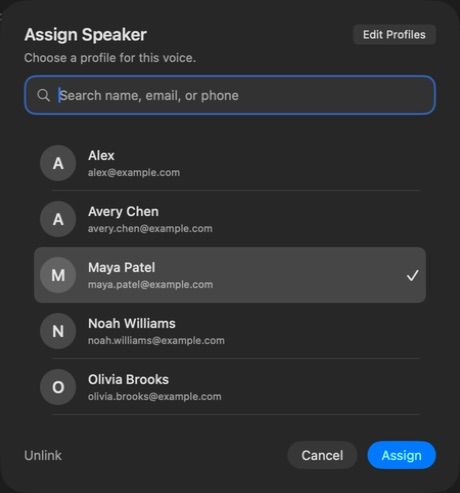
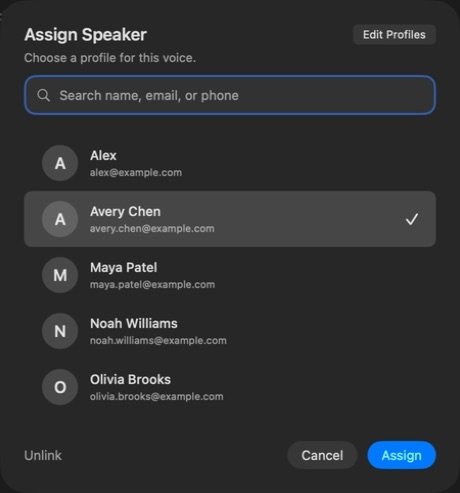
Restore rounded speaker selection while keeping full-width alignment

diff --git a/Sources/Stillnote/Views/SpeakerEditor.swift b/Sources/Stillnote/Views/SpeakerEditor.swift
@@ -113,13 +113,17 @@ struct SpeakerEditor: View {
                             }
                             .frame(minHeight: 44)
                             .padding(.vertical, 2)
+                            .listRowInsets(EdgeInsets(top: 4, leading: 12, bottom: 4, trailing: 12))
+                            .listRowSeparator(.hidden)
                             .tag(profile.id)
                         }
                     }
-                    .listStyle(.plain)
-                    .contentMargins(.horizontal, 0, for: .scrollContent)
+                    .listStyle(.inset)
                     .scrollContentBackground(.hidden)
                     .frame(height: matchingProfiles.isEmpty ? 112 : CGFloat(min(matchingProfiles.count, 5)) * 56 + 16)
+                    // Keep the native rounded selection while compensating for the
+                    // inset list’s 10-point outer margin on each side.
+                    .padding(.horizontal, -10)
                     .accessibilityLabel("Matching speaker profiles")
                     .disabled(unavailable)
                     .overlay {
